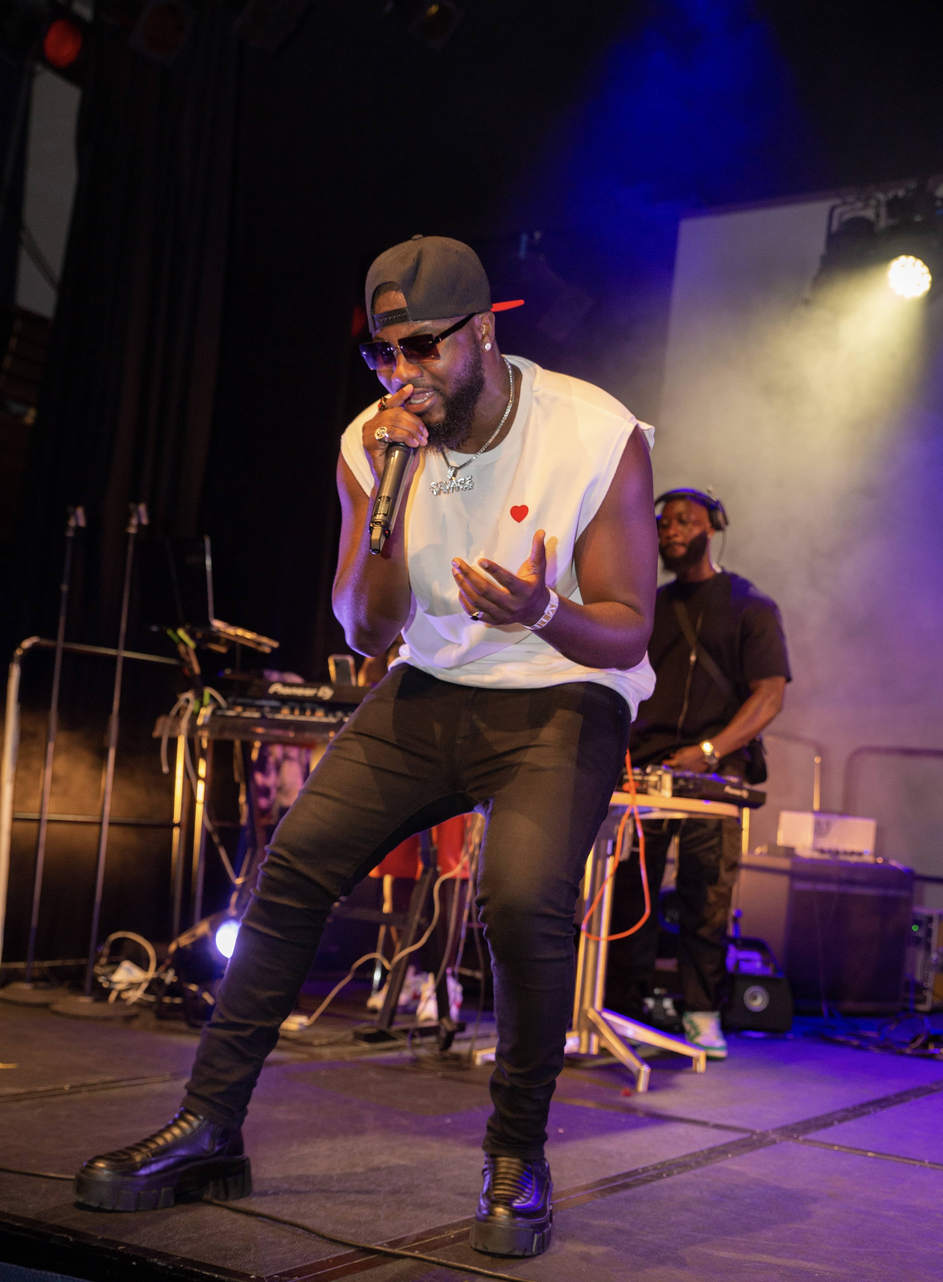
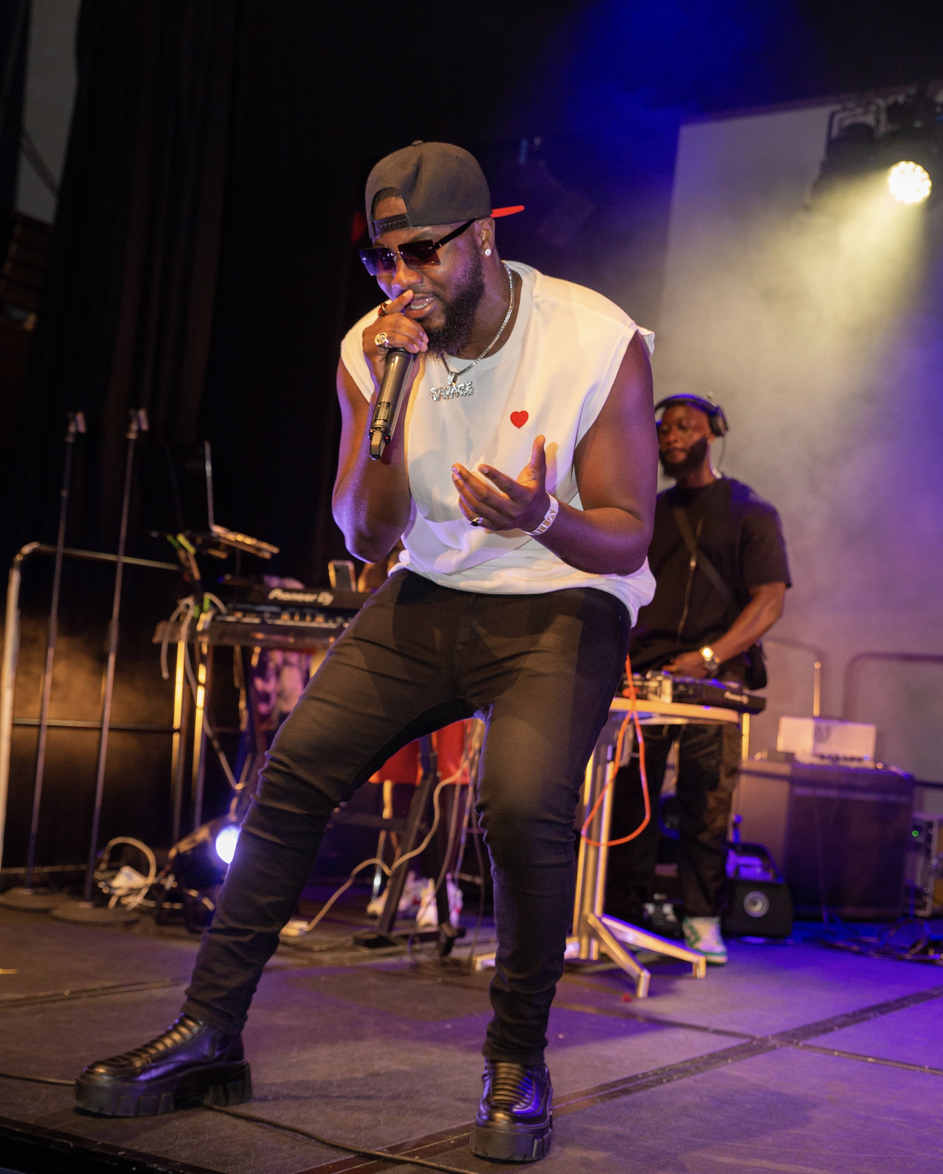
pictures on gallery page adjusted and som text on the homepage also changed

diff --git a/src/assets/index.js b/src/assets/index.js
@@ -12,14 +12,14 @@ export const Media = [
 
 export const Performance = [
     {type: 'image', url: require('./FA63B7BB-6F35-43E6-86FC-3E1F94D91DEC (2).JPG')},
-    {type: 'image', url: require('./11d0d1c8-956a-474c-b053-86acdbeaa5f1.JPG')},
-    {type: 'image', url: require('./stage-show.jpg')},
+    {type: 'image', url: require('./IMG_6378 (1).jpg')},
     {type: 'image', url: require('./IMG_6384 (1).JPG')},
-    {type: 'image', url: require('./IMG_6394 (1).JPG')},
     {type: 'image', url: require('./IMG_6388 (1).JPG')},
-    {type: 'image', url: require('./Screenshot (30).png')},
-    {type: 'image', url: require('./Screenshot (10).png')},
-    {type: 'image', url: require('./man-dancing-smoke-with-illuminating-light.jpg')},
+    {type: 'image', url: require('./Group7.jpg')},
+    {type: 'image', url: require('./39FA3FD4-87E9-4422-85CF-CA1EDF8A71C7 (1).JPG')},
+    {type: 'image', url: require('./IMG_7945.JPG')},
+    {type: 'image', url: require('./IMG_6394 (1).JPG')},
+    {type: 'image', url: require('./IMG_1408.JPG')},
 ]
 
 export const Archive = [
@@ -29,7 +29,7 @@ export const Archive = [
     {type: 'image', url: require('./IMG_7945.JPG')},
     {type: 'image', url: require('./081ABC57-46B3-4D8C-830C-8E3870864417 (1).JPG')},
     {type: 'image', url: require('./2F9459B6-A6CC-46DB-BE05-FFA83F4721E2 (1).JPG')},
-    {type: 'image', url: require('./Screenshot (38).png')},
-    {type: 'image', url: require('./Screenshot (11).png')},
+    {type: 'image', url: require('./6115482C-5EEC-4286-862E-BE5649995593 (1).JPG')},
+    {type: 'image', url: require('./IMG_1407.JPG')},
     {type: 'image', url: require('./1148DBA1-208B-43E8-9FDF-84EA58F44A08 (1).JPG')},
 ]

diff --git a/src/pages/home/Home.jsx b/src/pages/home/Home.jsx
@@ -136,7 +136,8 @@ function Home() {
            data-aos-delay="400"
               data-aos-duration="600"
      data-aos-anchor-placement="top-bottom"
-          >"Music expresses that which cannot be put into words and that which cannot remain silent."</p>
+          >"Set yourself apart from the rest, be FarFromOriginal” (FFO)"
+          </p>
           
           <p
            data-aos="flip-left"
@@ -144,7 +145,7 @@ function Home() {
            data-aos-delay="500"
               data-aos-duration="600"
      data-aos-anchor-placement="top-bottom"
-          >Victor Hugo</p>
+          > Kay Bryn </p>
         </div>
 
       </div>
@@ -168,13 +169,13 @@ function Home() {
                 data-aos-duration="900"
        data-aos-anchor-placement="top-bottom"
             className="underline"></div>
-            <p
+            {/* <p
              data-aos="fade-left"
              data-aos-easing="ease-in"
              data-aos-delay="700"
                 data-aos-duration="900"
        data-aos-anchor-placement="top-bottom"
-            >Click to watch  latest music Video bangers </p>
+            >Click to watch  latest music Video bangers </p> */}
           </div>
 
           <div className="bottom">

diff --git a/src/pages/home/home.css b/src/pages/home/home.css
@@ -188,6 +188,11 @@
     font-family: Raleway;
 }
 
+.home_sensation .sensation_wrapper p:nth-child(2) {
+  font-weight: 200;
+  color: #f4f4f4;
+}
+
 .home_sensation .sensation_wrapper p:nth-child(3) {
     font-size: 1.1rem;
     font-weight: 500;

diff --git a/src/pages/gallery/gallery.css b/src/pages/gallery/gallery.css
@@ -1,5 +1,5 @@
 #gallery_showcase {
-    background: url("../../assets/Group\ 6.png")no-repeat top center/cover;
+    background: url("../../assets/Group7.png")no-repeat top center/cover;
     /* min-height: 70vh; */
 }
 
